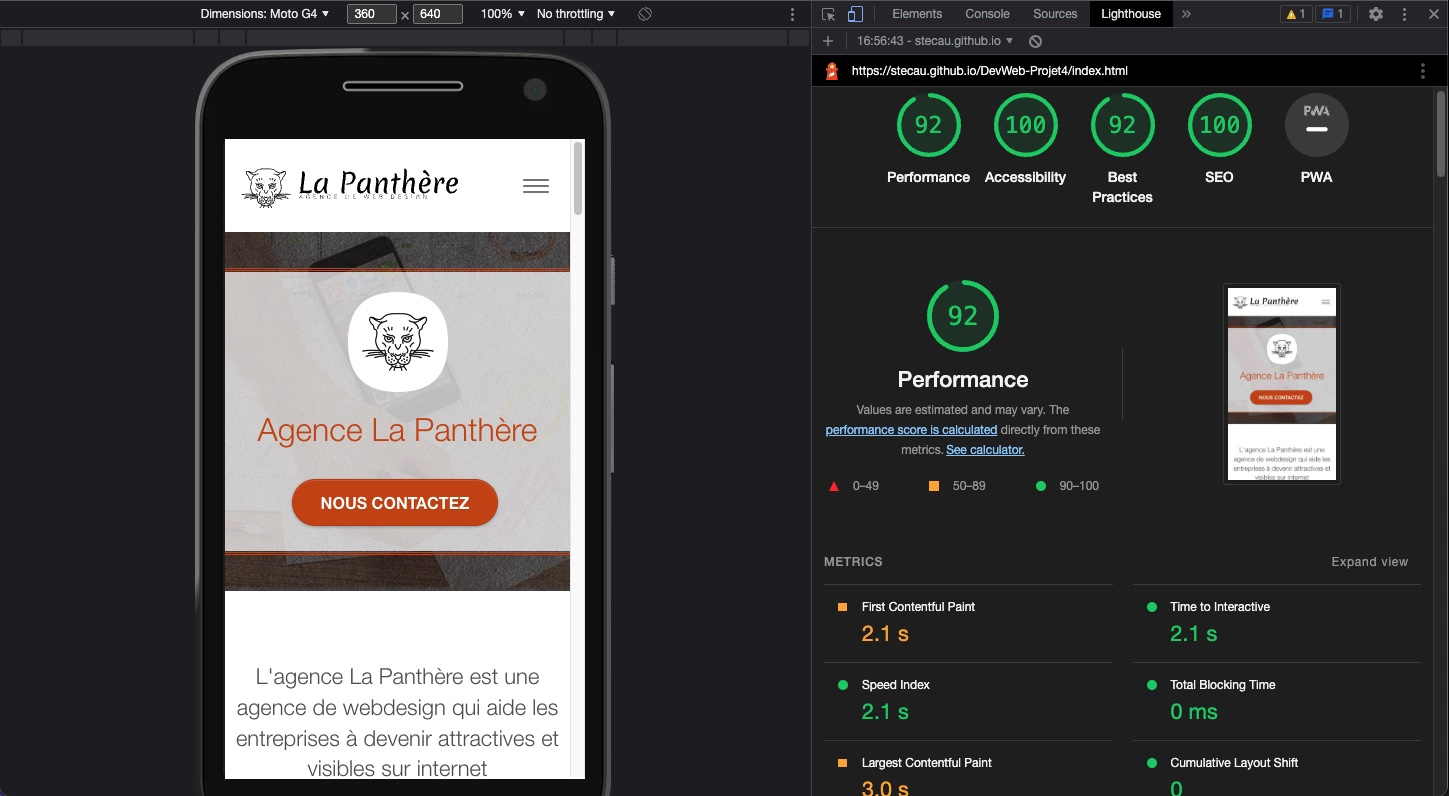
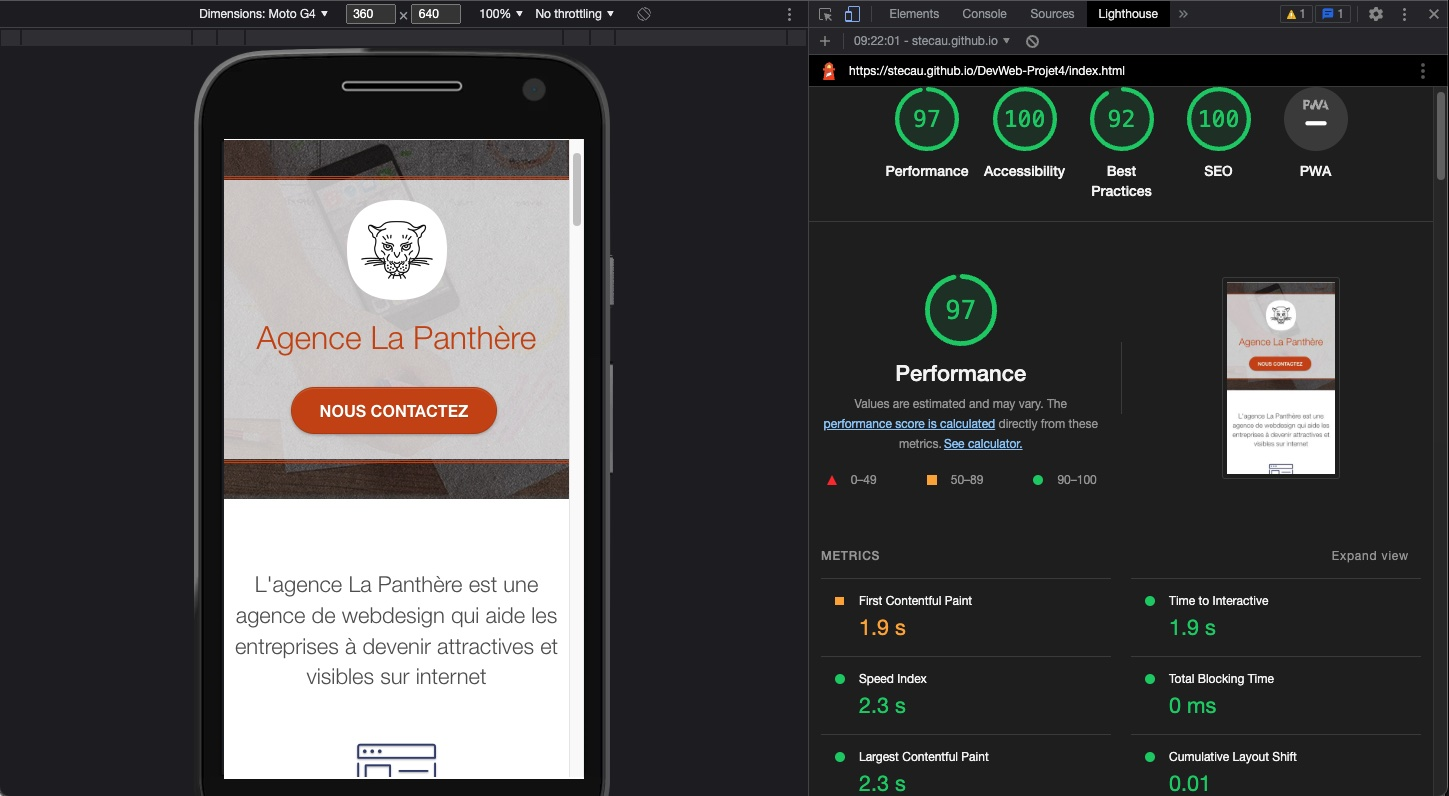
Change the css due to skip-content on top pb

diff --git a/contact.html b/contact.html
@@ -68,7 +68,7 @@
     
 <!-- bloc-0 -->
 <header class="bloc bgc-white l-bloc " id="bloc-0">
-	<a class="skip-to-content" href="#main">Skip to content</a>
+	<a class="sr-only" href="#main">Skip to content</a>
 	<div class="container bloc-sm">
 		<nav class="navbar row row-no-gutters" aria-label="Menu">
 			<div class="navbar-header">
@@ -176,7 +176,7 @@
 <!-- ScrollToTop Button -->
 <a class="bloc-button btn btn-d scrollToTop" href="#bloc-0" role="button">
 	<span class="fa fa-chevron-up" aria-hidden="true"></span>
-	<span class="visuallyhidden">Retour en haut de page</span>
+	<span class="sr-only">Retour en haut de page</span>
 </a>
 <!-- ScrollToTop Button END-->
 
@@ -194,7 +194,7 @@
 						<div class="text-center">
 							<a class="social" href="#">
 								<span class="fa fa-twitter icon-md" aria-hidden="true"></span>
-								<span class="visuallyhidden white">Compte Twitter de l'agence webdesign La Panthère à Lyon</span>
+								<span class="sr-only white">Compte Twitter de l'agence webdesign La Panthère à Lyon</span>
 							</a>
 						</div>
 					</div>
@@ -202,7 +202,7 @@
 						<div class="text-center">
 							<a class="social" href="#">
 								<span class="fa fa-facebook icon-md" aria-hidden="true"></span>
-								<span class="visuallyhidden white">Page Facebook de l'agence webdesign La Panthère à Lyon</span>
+								<span class="sr-only white">Page Facebook de l'agence webdesign La Panthère à Lyon</span>
 							</a>
 						</div>
 					</div>
@@ -210,7 +210,7 @@
 						<div class="text-center">
 							<a class="social" href="#">
 								<span class="fa fa-dribbble icon-md" aria-hidden="true"></span>
-								<span class="visuallyhidden white">Site web de l'agence webdesign La Panthère à Lyon, page d'accueil</span>
+								<span class="sr-only white">Site web de l'agence webdesign La Panthère à Lyon, page d'accueil</span>
 							</a>
 						</div>
 					</div>
@@ -218,7 +218,7 @@
 						<div class="text-center">
 							<a class="social" href="#">
 								<span class="fa fa-instagram icon-md" aria-hidden="true"></span>
-								<span class="visuallyhidden white">Compte Instagram de l'agence webdesign La Panthère à Lyon</span>
+								<span class="sr-only white">Compte Instagram de l'agence webdesign La Panthère à Lyon</span>
 							</a>
 						</div>
 					</div>

diff --git a/index.html b/index.html
@@ -43,7 +43,7 @@
     
 <!-- bloc-0 -->
 <header class="bloc bgc-white l-bloc " id="bloc-0">
-	<a class="skip-to-content" href="#main">Skip to content</a>
+	<a class="sr-only" href="#main">Skip to content</a>
 	<div class="container bloc-sm">
 		<nav class="navbar row row-no-gutters" aria-label="Menu">
 			<div class="navbar-header">
@@ -268,7 +268,7 @@
 						<div class="text-center">
 							<a class="social" href="#">
 								<span class="fa fa-twitter icon-md" aria-hidden="true"></span>
-								<span class="visuallyhidden white">Compte Twitter de l'agence webdesign La Panthère à Lyon</span>
+								<span class="sr-only white">Compte Twitter de l'agence webdesign La Panthère à Lyon</span>
 							</a>
 						</div>
 					</div>
@@ -276,7 +276,7 @@
 						<div class="text-center">
 							<a class="social" href="#">
 								<span class="fa fa-facebook icon-md" aria-hidden="true"></span>
-								<span class="visuallyhidden white">Page Facebook de l'agence webdesign La Panthère à Lyon</span>
+								<span class="sr-only white">Page Facebook de l'agence webdesign La Panthère à Lyon</span>
 							</a>
 						</div>
 					</div>
@@ -284,7 +284,7 @@
 						<div class="text-center">
 							<a class="social" href="#">
 								<span class="fa fa-dribbble icon-md" aria-hidden="true"></span>
-								<span class="visuallyhidden white">Site web de l'agence webdesign La Panthère à Lyon, page d'accueil</span>
+								<span class="sr-only white">Site web de l'agence webdesign La Panthère à Lyon, page d'accueil</span>
 							</a>
 						</div>
 					</div>
@@ -292,7 +292,7 @@
 						<div class="text-center">
 							<a class="social" href="#">
 								<span class="fa fa-instagram icon-md" aria-hidden="true"></span>
-								<span class="visuallyhidden white">Compte Instagram de l'agence webdesign La Panthère à Lyon</span>
+								<span class="sr-only white">Compte Instagram de l'agence webdesign La Panthère à Lyon</span>
 							</a>
 						</div>
 					</div>

diff --git a/style.css b/style.css
@@ -1042,18 +1042,6 @@ h4 {
     }
 }
 
-/* Rajout pour correction accessibilité : */
-.visuallyhidden {
-    border: 0;
-    clip-path: inset(0 0);
-    height: 1px;
-    margin: -1px;
-    overflow: hidden;
-    padding: 0;
-    position: absolute;
-    width: 1px;
-}
-
 blockquote {
     margin: 0;
 }
@@ -1071,11 +1059,6 @@ blockquote p::before {
 
 blockquote p::after {
     content: '\201D';
-}
-
-.skip-to-content {
-    position: absolute;
-    clip-path: inset(0 0);
 }
 
 /* Rajout pour correction Bootstrap plugin Validation : */
